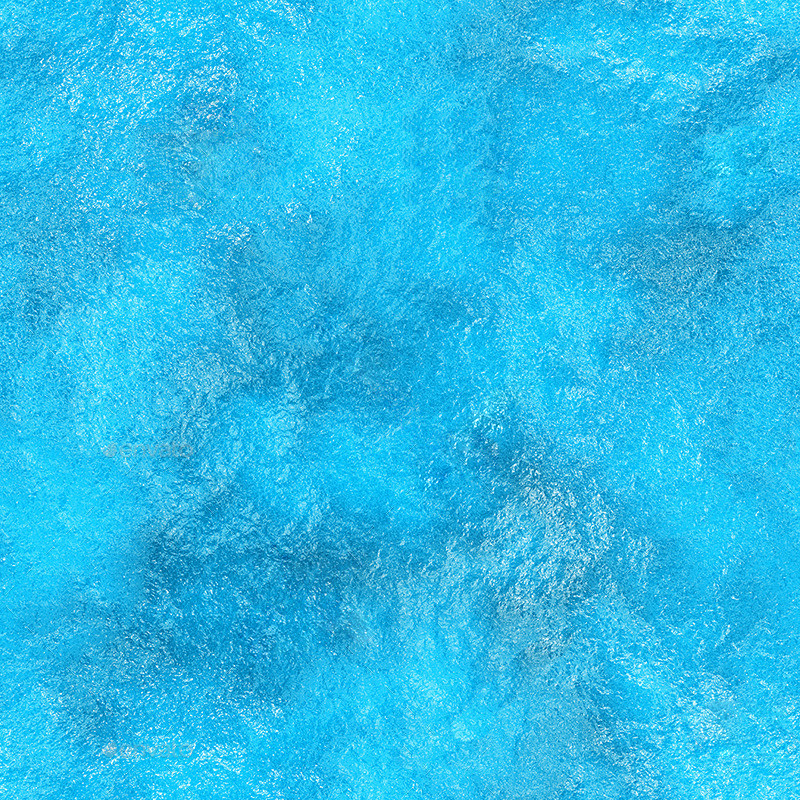
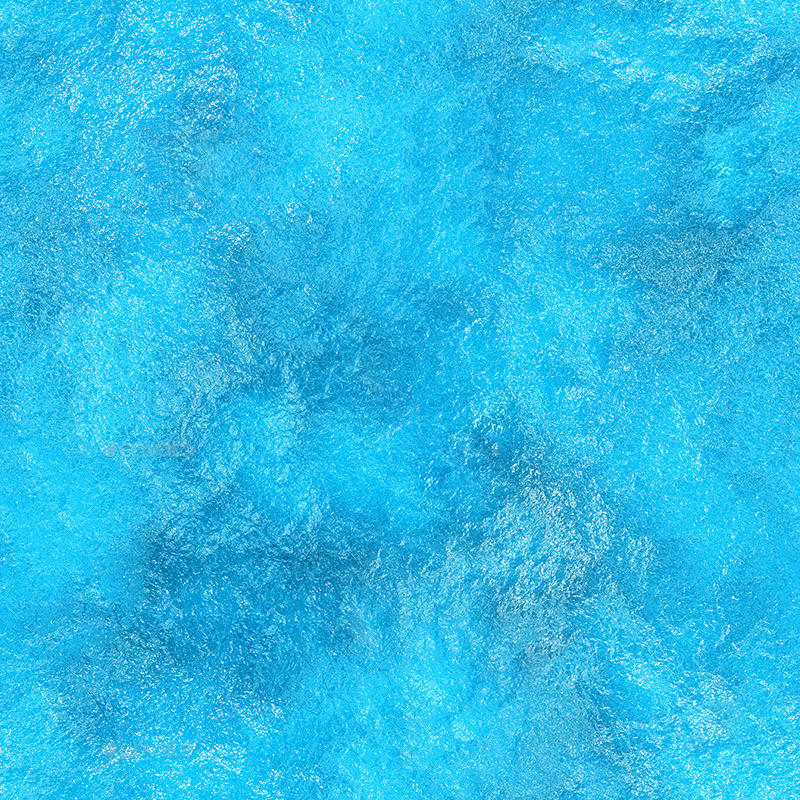
Updated water

Changed region(s): [[0.0, 0.0, 1.0, 1.0]]

diff --git a/css/fw1.css b/css/fw1.css
@@ -504,7 +504,7 @@ a:hover{
 	padding: 0 .5em;
 }
 #diplomacy-ui{
-	font-size: 1em;
+	font-size: 1.125em;
 	position: absolute;
 	left: .25em;
 	top: .25em;
@@ -801,9 +801,11 @@ table td, .table th, .table td {
 }
 #worldWater2{
 	opacity: .4;
+	background: url('../images/water13.jpg');
 }
 #worldWater3{
 	opacity: .4;
+	background: url('../images/water12.jpg');
 }
 #world{
 	position: absolute;

diff --git a/index.php b/index.php
@@ -114,7 +114,7 @@
 					<a href="//github.com/Maelfyn/Nevergrind">
 						<i class="fa fa-github text-primary pointer"></i>
 					</a>
-					<a href="//reddit.com/r/nevergrind">
+					<a href="//reddit.com/r/firmamentwars">
 						<i class="fa fa-reddit text-primary pointer"></i>
 					</a>
 					<a href="//goo.gl/BFsmf2">
